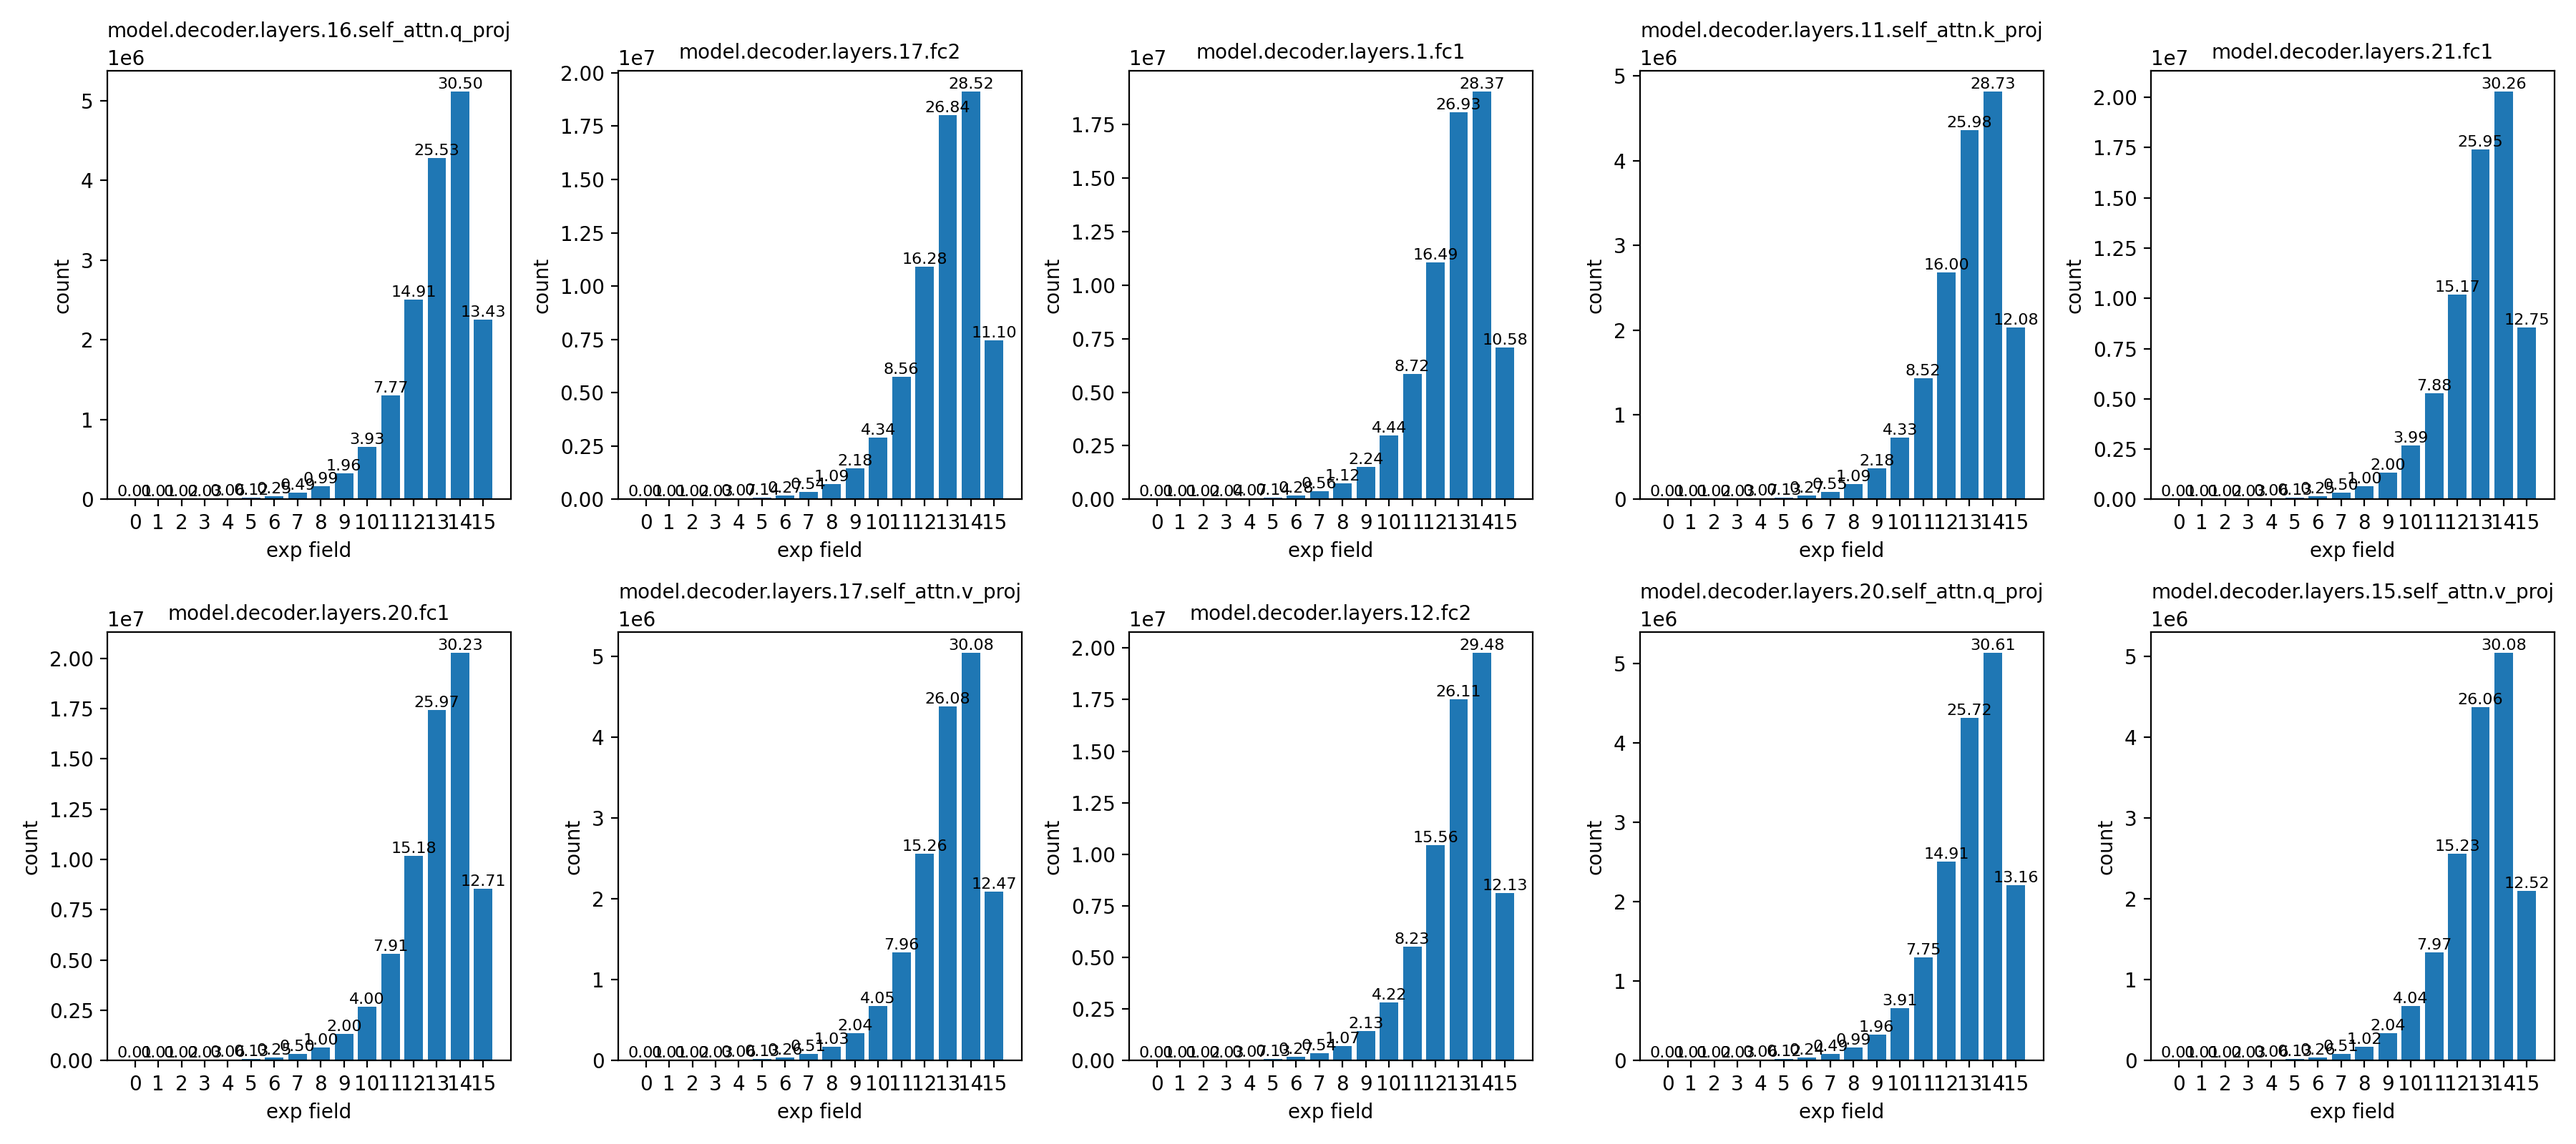
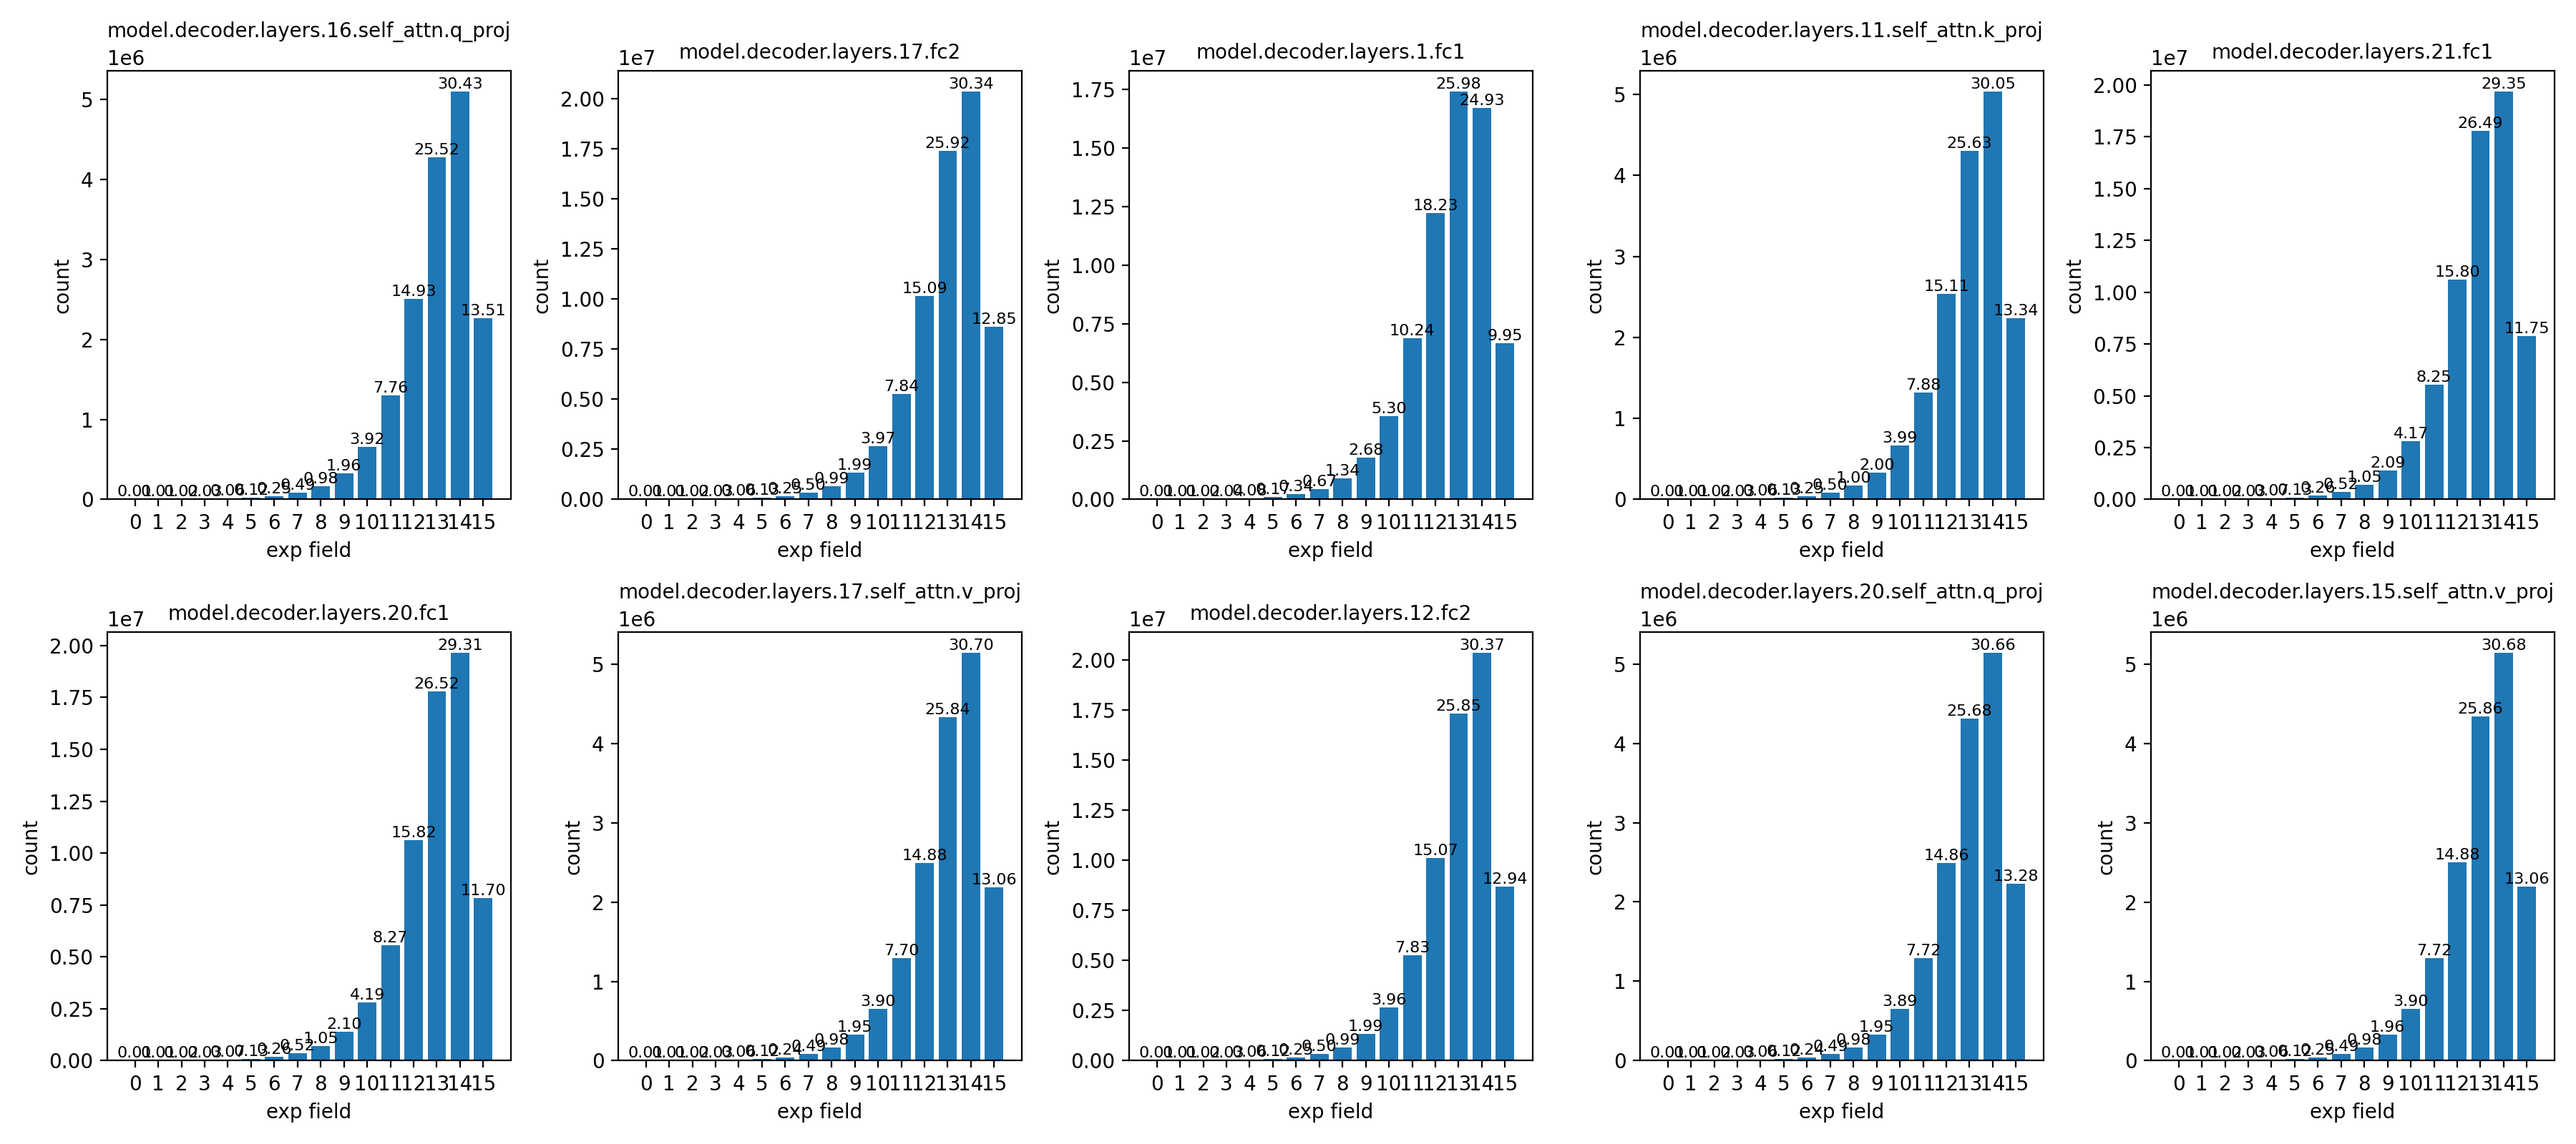
对quant_linear的forward函数做了简化

diff --git a/quant_linear.py b/quant_linear.py
@@ -771,175 +771,28 @@ class QuantLinear(nn.Module):
         if not self.quantized:
             return F.linear(input, self.weight, self.bias)
 
-        if self.weight_format == "bfp":
-            return F.linear(input, self.weight, self.bias)
-
-        # FP4 前向直接解码为浮点做矩阵乘法（与整数量化路径分离）
-        if self.weight_format == "fp4":
-            if self.approximate:
-                if self.weight_fp4 is None or self.scales is None:
-                    dequantized_weight = self.weight
-                else:
-                    codes_grouped = self.weight_fp4.reshape(-1, self.w_group_size)
-                    scales = self.scales.reshape(-1, 1).to(self.weight.dtype)
-                    decoded = _fp4_decode_aligned(codes_grouped, target_exp_field=2, exp_bits=FP4_EXP_BITS, mant_bits=FP4_MANTISSA_BITS, exp_bias=FP4_EXP_BIAS).to(self.weight.dtype)
-                    dequantized_grouped = decoded * scales
-                    weight_t_shape = (self.weight.shape[1], self.weight.shape[0])
-                    dequantized_weight = dequantized_grouped.view(weight_t_shape).t()
-                return F.linear(input, dequantized_weight, self.bias)
+        # FP/BFP 权重在量化阶段已解码到 self.weight，直接使用
+        if self.weight_format in {"fp4", "fp6", "fp8", "bfp"}:
             original_input_shape = input.shape
-            if self.weight_fp4 is None or self.scales is None:
-                # 如果意外缺少码字或scale，退化为使用当前权重
-                print("缺少scale!")
-                dequantized_weight = self.weight
-            else:
-                if self.w_group_size > 0:
-                    original_shape = self.weight.shape
-                    codes_grouped = self.weight_fp4.reshape(-1, self.w_group_size)
-                    scales = self.scales.reshape(-1, 1).to(self.weight.dtype)
-                    dequantized_weight = _fp4_to_float(codes_grouped).to(self.weight.dtype) * scales
-                    if self.zeros is not None:
-                        zeros = self.zeros.reshape(-1, 1).to(self.weight.dtype)
-                        dequantized_weight = dequantized_weight + zeros
-                    dequantized_weight = dequantized_weight.view(original_shape)
-                elif self.w_group_size == -1:
-                    scales = self.scales.view(1, 1).to(self.weight.dtype)
-                    dequantized_weight = _fp4_to_float(self.weight_fp4).to(self.weight.dtype) * scales
-                    if self.zeros is not None:
-                        dequantized_weight = dequantized_weight + self.zeros.view(1, 1).to(self.weight.dtype)
-                elif self.w_group_size == -2:
-                    original_shape = self.weight.shape
-                    codes_grouped = self.weight_fp4.reshape(original_shape[0], -1)
-                    scales = self.scales.reshape(original_shape[0], 1).to(self.weight.dtype)
-                    dequantized_weight = _fp4_to_float(codes_grouped).to(self.weight.dtype) * scales
-                    if self.zeros is not None:
-                        zeros = self.zeros.reshape(original_shape[0], 1).to(self.weight.dtype)
-                        dequantized_weight = dequantized_weight + zeros
-                    dequantized_weight = dequantized_weight.view(original_shape)
-                else:
-                    raise ValueError("Invalid w_group_size")
-
-            # FIGLUT-I 的整数累加不适用于 FP4，这里统一走标准线性层
-            output = F.linear(input, dequantized_weight, self.bias)
-
-            # 恢复输入的原始形状
+            out = F.linear(input, self.weight, self.bias)
             if input.dim() > 2:
-                output = output.reshape(original_input_shape[:-1] + (self.out_features,))
-            return output
+                out = out.reshape(original_input_shape[:-1] + (self.out_features,))
+            return out
 
-        # FP6 前向
-        if self.weight_format == "fp6":
-            if self.approximate:
-                if self.weight_fp6 is None or self.scales is None:
-                    dequantized_weight = self.weight
-                else:
-                    codes_grouped = self.weight_fp6.reshape(-1, self.w_group_size)
-                    scales = self.scales.reshape(-1, 1).to(self.weight.dtype)
-                    decoded = _fp6e3m2_decode_aligned(codes_grouped, hi_align_start=4, hi_align_exp_field=7, tail_pad_bits=2, exp_bits=FP6_EXP_BITS, mant_bits=FP6_MANTISSA_BITS, exp_bias=FP6_EXP_BIAS).to(self.weight.dtype)
-                    dequantized_grouped = decoded * scales
-                    weight_t_shape = (self.weight.shape[1], self.weight.shape[0])
-                    dequantized_weight = dequantized_grouped.view(weight_t_shape).t()
-                return F.linear(input, dequantized_weight, self.bias)
-            original_input_shape = input.shape
-            if self.weight_fp6 is None or self.scales is None:
-                dequantized_weight = self.weight
-            else:
-                if self.w_group_size > 0:
-                    original_shape = self.weight.shape
-                    codes_grouped = self.weight_fp6.reshape(-1, self.w_group_size)
-                    scales = self.scales.reshape(-1, 1).to(self.weight.dtype)
-                    dequantized_weight = _fp4_to_float(codes_grouped, exp_bits=FP6_EXP_BITS, mant_bits=FP6_MANTISSA_BITS, exp_bias=FP6_EXP_BIAS).to(self.weight.dtype) * scales
-                    if self.zeros is not None:
-                        zeros = self.zeros.reshape(-1, 1).to(self.weight.dtype)
-                        dequantized_weight = dequantized_weight + zeros
-                    dequantized_weight = dequantized_weight.view(original_shape)
-                elif self.w_group_size == -1:
-                    scales = self.scales.view(1, 1).to(self.weight.dtype)
-                    dequantized_weight = _fp4_to_float(self.weight_fp6, exp_bits=FP6_EXP_BITS, mant_bits=FP6_MANTISSA_BITS, exp_bias=FP6_EXP_BIAS).to(self.weight.dtype) * scales
-                    if self.zeros is not None:
-                        dequantized_weight = dequantized_weight + self.zeros.view(1, 1).to(self.weight.dtype)
-                elif self.w_group_size == -2:
-                    original_shape = self.weight.shape
-                    codes_grouped = self.weight_fp6.reshape(original_shape[0], -1)
-                    scales = self.scales.reshape(original_shape[0], 1).to(self.weight.dtype)
-                    dequantized_weight = _fp4_to_float(codes_grouped, exp_bits=FP6_EXP_BITS, mant_bits=FP6_MANTISSA_BITS, exp_bias=FP6_EXP_BIAS).to(self.weight.dtype) * scales
-                    if self.zeros is not None:
-                        zeros = self.zeros.reshape(original_shape[0], 1).to(self.weight.dtype)
-                        dequantized_weight = dequantized_weight + zeros
-                    dequantized_weight = dequantized_weight.view(original_shape)
-                else:
-                    raise ValueError("Invalid w_group_size")
-
-            output = F.linear(input, dequantized_weight, self.bias)
-            if input.dim() > 2:
-                output = output.reshape(original_input_shape[:-1] + (self.out_features,))
-            return output
-
-        # FP8 前向
-        if self.weight_format == "fp8":
-            if self.approximate:
-                if self.weight_fp8 is None or self.scales is None:
-                    dequantized_weight = self.weight
-                else:
-                    # codes_grouped = self.weight_fp8.reshape(-1, self.w_group_size)
-                    # scales = self.scales.reshape(-1, 1).to(self.weight.dtype)
-                    # decoded = _fp8_decode_aligned(codes_grouped, hi_align_start=12, hi_align_exp_field=15, tail_pad_bits=2, exp_bits=FP8_EXP_BITS, mant_bits=FP8_MANTISSA_BITS, exp_bias=FP8_EXP_BIAS).to(self.weight.dtype)
-                    # dequantized_grouped = decoded * scales
-                    # weight_t_shape = (self.weight.shape[1], self.weight.shape[0])
-                    # dequantized_weight = dequantized_grouped.view(weight_t_shape).t()
-                    dequantized_weight = self.weight.data
-                return F.linear(input, dequantized_weight, self.bias)
-            original_input_shape = input.shape
-            if self.weight_fp8 is None or self.scales is None:
-                dequantized_weight = self.weight
-            else:
-                dequantized_weight = self.weight.data
-                # if self.w_group_size > 0:
-                #     original_shape = self.weight.shape
-                #     codes_grouped = self.weight_fp8.reshape(-1, self.w_group_size)
-                #     scales = self.scales.reshape(-1, 1).to(self.weight.dtype)
-                #     dequantized_weight = _fp4_to_float(codes_grouped, exp_bits=FP8_EXP_BITS, mant_bits=FP8_MANTISSA_BITS, exp_bias=FP8_EXP_BIAS).to(self.weight.dtype) * scales
-                #     if self.zeros is not None:
-                #         zeros = self.zeros.reshape(-1, 1).to(self.weight.dtype)
-                #         dequantized_weight = dequantized_weight + zeros
-                #     dequantized_weight = dequantized_weight.view(original_shape)
-                # elif self.w_group_size == -1:
-                #     scales = self.scales.view(1, 1).to(self.weight.dtype)
-                #     dequantized_weight = _fp4_to_float(self.weight_fp8, exp_bits=FP8_EXP_BITS, mant_bits=FP8_MANTISSA_BITS, exp_bias=FP8_EXP_BIAS).to(self.weight.dtype) * scales
-                #     if self.zeros is not None:
-                #         dequantized_weight = dequantized_weight + self.zeros.view(1, 1).to(self.weight.dtype)
-                # elif self.w_group_size == -2:
-                #     original_shape = self.weight.shape
-                #     codes_grouped = self.weight_fp8.reshape(original_shape[0], -1)
-                #     scales = self.scales.reshape(original_shape[0], 1).to(self.weight.dtype)
-                #     dequantized_weight = _fp4_to_float(codes_grouped, exp_bits=FP8_EXP_BITS, mant_bits=FP8_MANTISSA_BITS, exp_bias=FP8_EXP_BIAS).to(self.weight.dtype) * scales
-                #     if self.zeros is not None:
-                #         zeros = self.zeros.reshape(original_shape[0], 1).to(self.weight.dtype)
-                #         dequantized_weight = dequantized_weight + zeros
-                #     dequantized_weight = dequantized_weight.view(original_shape)
-                # else:
-                #     raise ValueError("Invalid w_group_size")
-
-            output = F.linear(input, dequantized_weight, self.bias)
-            if input.dim() > 2:
-                output = output.reshape(original_input_shape[:-1] + (self.out_features,))
-            return output
-        
         # 确保输入是2D的 (batch_size, in_features)
         original_input_shape = input.shape
         if input.dim() > 2:
             input = input.reshape(-1, input.shape[-1])
 
-        # 根据mode选择前向计算方式
+        # 根据mode选择前向计算方式（整数量化路径）
         if self.mode == 0 or self.mode == 1:
-            # 1. 准备权重
             weight_int = self.weight        
             if self.w_group_size > 0: 
                 # per-group 量化， 需要按组处理
                 original_shape = self.weight.shape
                 weight_int = self.weight.reshape(-1, self.w_group_size)
 
-            # 2. 反量化，适用于所有粒度的情况
+            # 反量化，适用于所有粒度的情况
             if self.zeros is not None:
                 dequantized_weight = (weight_int - self.zeros) * self.scales
             else:
@@ -967,47 +820,23 @@ class QuantLinear(nn.Module):
             scales_w = self.scales.reshape(self.out_features, num_groups)  # shape: [out_features, num_groups]
 
             # 4. 分组整数矩阵乘法
-            # 4.1 Reshape A and W以进行分组计算
-            # A: [m, n] -> [m, g, s] (m=batch_size, g=num_groups, s=group_size)
             activations_grouped = activations_int.reshape(-1, num_groups, self.w_group_size)
-            # W: [o, n] -> [o, g, s] (o=out_features, g=num_groups, s=group_size)
             weights_grouped = weights_int.reshape(self.out_features, num_groups, self.w_group_size)
-
-            # 4.2 使用einsum计算整数部分和
-            # m: batch dim, o: output feature dim, g: group dim, s: group size dim
-            # 我们对每个 group 内的元素 (s) 进行点积
-            # 得到每个(batch, output_feature, group)的部分和
-            # 'mgs,ogs->mog' 表示:
-            #   - 对 m, g, s 和 o, g, s 进行操作
-            #   - s 是求和的维度 (点积)
-            #   - 结果的维度是 m, o, g
             activations_grouped_fp64 = activations_grouped.to(torch.float64)  # int64不被GPU支持，只能转换成FP64了
             weights_grouped_fp64 = weights_grouped.to(torch.float64)
             partial_sums_acc = torch.einsum('mgs,ogs->mog', activations_grouped_fp64, weights_grouped_fp64)
 
             # 5. 缩放部分和并用FP32累加
-            # 5.1 准备用于广播的scales
-            # scales_w: [o, g] -> [1, o, g]
             scales_w_broadcastable = scales_w.unsqueeze(0).to(torch.float32)
-
-            # 5.2 将整数部分和乘以权重 scales，转换为 FP32
-            # partial_sums_acc: [m, o, g]
-            # scales_w_broadcastable: [1, o, g]
-            # 结果 partial_sums_fp: [m, o, g]
             partial_sums_fp = partial_sums_acc.to(torch.float32) * scales_w_broadcastable
             partial_sums_fp /= 2**(MANTISSA_BITS-1)
-
-            # 5.3 累加FP32部分和（在group维度上求和）
-            # 模拟 FP32 累加器
             accumulated_fp = torch.sum(partial_sums_fp, dim=2) # shape: [m, o]
 
             # 6. 应用激活值的scale并添加偏置
-            # 6.1 row_exponents: [m] -> [m, 1]
             row_exponents_fp32 = row_exponents.to(torch.float32)
             act_scales = torch.pow(2.0, row_exponents_fp32).unsqueeze(-1)
             output_rescaled = accumulated_fp * act_scales
 
-            # 6.2 添加偏置并保证输出dtype与输入一致
             if self.bias is not None:
                 output_rescaled = output_rescaled + self.bias.to(output_rescaled.dtype)
             output = output_rescaled.to(input.dtype)
